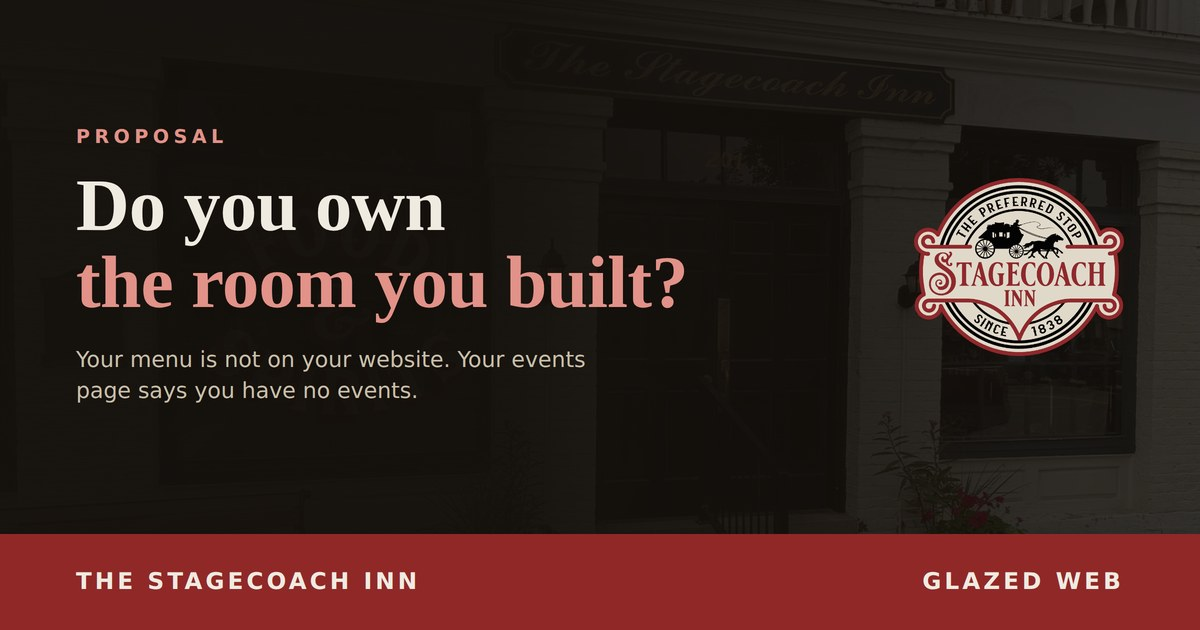
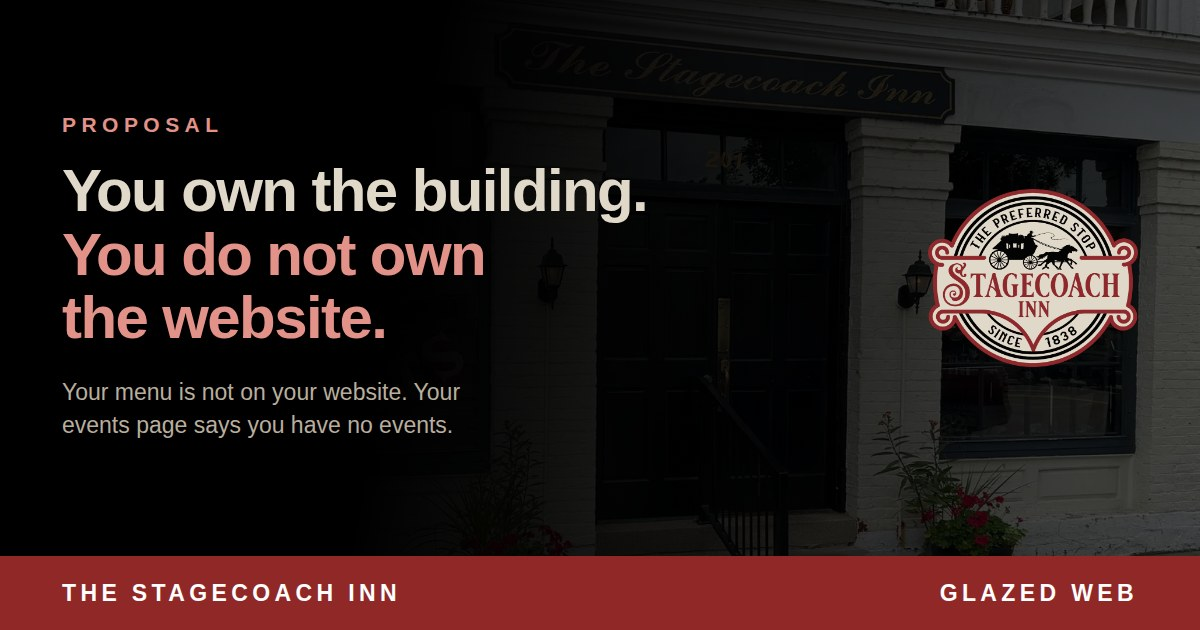
Say the thesis instead of gesturing at it
"Do you own the room you built?" asked a bar owner about a room, and a bar
owner owns the room. The metaphor meant the website; the literal reading is
right there and it wins, so the hook argued itself down to "yes, obviously."

Now: "You own the building. You do not own the website." Same thesis, no
decoding, and the sub-head pays it off with the three findings that make it
true rather than restating it.

The share card had the old headline baked into a JPEG, so every link preview
was advertising a line the page no longer said. tools/make-og.mjs now builds
it, asserts the headline fits its column before writing, and is named in the
README as something to re-run when the h1 changes.

The h1 floor drops 38px -> 34px: the longest line measures 350px and the
column is 342px at a 390px viewport, so it wrapped and the forced break after
it orphaned "building." on a line of its own. Three clean lines at 390, 768
and 1440; four at 320, which is the only width where it does not fit.

Title, og:title and twitter:title carried the old hook too. All three updated.
Proposal page and site routes both 0 axe violations at 390 and 1440.

diff --git a/public/pitch/stagecoach.html b/public/pitch/stagecoach.html
@@ -3,7 +3,7 @@
 <head>
 <meta charset="utf-8">
 <meta name="viewport" content="width=device-width,initial-scale=1">
-<title>Do you own the room you built? &middot; Stagecoach Inn &times; Glazed Web</title>
+<title>You own the building. You do not own the website. &middot; Stagecoach Inn &times; Glazed Web</title>
 <meta name="description" content="A website audit and rebuild proposal for The Stagecoach Inn, Marshall Michigan. The menu is not on the site, the events page says there are no events, and Toast publishes a second website about you.">
 <meta name="robots" content="noindex,nofollow">
 <link rel="icon" href="/brand/logo.png">
@@ -13,14 +13,14 @@
      link never previews blank on either domain. -->
 <meta property="og:type" content="website">
 <meta property="og:site_name" content="Glazed Web">
-<meta property="og:title" content="Do you own the room you built?">
+<meta property="og:title" content="You own the building. You do not own the website.">
 <meta property="og:description" content="Your menu is not on your website. Your events page says you have no events. And Toast publishes a second Stagecoach Inn site with your phone number on it.">
 <meta property="og:image" content="https://stagecoach-demo.vercel.app/pitch/og.jpg">
 <meta property="og:image:width" content="1200">
 <meta property="og:image:height" content="630">
 <meta property="og:image:alt" content="Stagecoach Inn proposal from Glazed Web">
 <meta name="twitter:card" content="summary_large_image">
-<meta name="twitter:title" content="Do you own the room you built?">
+<meta name="twitter:title" content="You own the building. You do not own the website.">
 <meta name="twitter:description" content="Your menu is not on your website. Your events page says you have no events.">
 <meta name="twitter:image" content="https://stagecoach-demo.vercel.app/pitch/og.jpg">
 <style>
@@ -65,7 +65,10 @@ nav a:hover{color:var(--pink-d)}
 /* hero */
 .hero{padding:66px 0 54px;text-align:left}
 .hero .mark{height:92px;width:auto;margin-bottom:24px;display:block}
-.hero h1{font-family:var(--sans);font-size:clamp(38px,5.5vw,60px);font-weight:800;color:var(--ink);letter-spacing:-2px;line-height:1.04}
+/* The floor is 34, not 38, because the longest line of the headline measures
+   350px at 38 and the column is 342 at a 390px viewport: it wrapped, and the
+   forced break after it left "building." alone on a line. Measured, not eyed. */
+.hero h1{font-family:var(--sans);font-size:clamp(34px,5.5vw,60px);font-weight:800;color:var(--ink);letter-spacing:-2px;line-height:1.06}
 .hero h1 em{font-style:normal;color:var(--pink)}
 .hero .sub{font-size:1.12rem;color:var(--body);margin-top:20px;max-width:31em}
 .forwho{margin-top:26px;font-family:var(--sans);font-size:.7rem;letter-spacing:.16em;text-transform:uppercase;color:var(--mute);line-height:1.9}
@@ -232,12 +235,13 @@ footer .gmark{height:78px;width:auto}
   <div class="hero">
     <svg class="gmark gl" viewBox="0 0 200 250" overflow="visible" aria-hidden="true"><defs><linearGradient id="dgGrad" x1="0" y1="92" x2="0" y2="165" gradientUnits="userSpaceOnUse"><stop offset="0%" stop-color="#5FA850"></stop><stop offset="100%" stop-color="#43813A"></stop></linearGradient><linearGradient id="lgGrad" x1="0" y1="92" x2="0" y2="215" gradientUnits="userSpaceOnUse"><stop offset="0%" stop-color="#D9EDA0"></stop><stop offset="55%" stop-color="#BFE07A"></stop><stop offset="100%" stop-color="#A3CE55"></stop></linearGradient><radialGradient id="pinkGrad" cx="40%" cy="34%" r="75%"><stop offset="0%" stop-color="#F887B2"></stop><stop offset="55%" stop-color="#E84D8A"></stop><stop offset="100%" stop-color="#CE3672"></stop></radialGradient><linearGradient id="creepGrad" x1="0" y1="90" x2="0" y2="124" gradientUnits="userSpaceOnUse"><stop offset="0%" stop-color="#E3F2B0"></stop><stop offset="100%" stop-color="#C3E181"></stop></linearGradient></defs><g class="goo"><g fill="url(#dgGrad)"><ellipse cx="100" cy="110" rx="38" ry="15"></ellipse><path class="wobB" d="M 86 100 C 86 116, 87 130, 88 142 C 88 148, 91 149, 92 142 C 93 130, 92 114, 92 100 Z"></path><path d="M 114 100 C 114 112, 115 124, 116 134 C 116 140, 119 141, 120 134 C 121 124, 120 110, 120 100 Z"></path></g><g fill="url(#lgGrad)"><path class="wob1" d="M 64 100 C 63 120, 65 138, 66 152 C 66 164, 68 172, 74 173 C 80 172, 83 165, 82 154 C 84 136, 85 116, 86 100 Z"></path><path class="wob2" d="M 92 100 C 91 128, 93 152, 94 172 C 94 188, 97 199, 104 200 C 111 199, 114 190, 112 174 C 113 150, 114 124, 114 100 Z"></path><path class="wob3" d="M 120 100 C 119 116, 120 130, 121 142 C 121 152, 123 159, 129 160 C 134 159, 137 153, 135 144 C 136 130, 137 114, 137 100 Z"></path></g></g><path class="string" d="M 104 199 L 104 209" stroke="#BFE07A" stroke-width="2.5" stroke-linecap="round" fill="none"></path><g class="droplet"><circle cx="104" cy="213" r="7" fill="#BFE07A"></circle><circle cx="102" cy="211" r="2" fill="#F1F8DC" opacity="0.9"></circle></g><circle class="droplet2" cx="74" cy="186" r="4.5" fill="#BFE07A"></circle><circle cx="100" cy="70" r="52" fill="url(#pinkGrad)"></circle><path d="M 56 98 A 52 52 0 0 0 144 98 C 142 94, 138 92, 134 94 C 130 97, 129 102, 125 104 C 119 106, 116 98, 110 96 C 104 94, 103 102, 98 105 C 93 107, 90 100, 84 97 C 78 95, 76 100, 71 102 C 66 103, 62 100, 56 98 Z" fill="url(#creepGrad)"></path><path d="M 68 106 A 42 42 0 0 0 84 116" fill="none" stroke="#F1F8DC" stroke-width="4" stroke-linecap="round" opacity="0.85"></path><path d="M 97 144 Q 103 151 109 144" fill="none" stroke="#55974A" stroke-width="4" stroke-linecap="round"></path><g stroke="#F1F8DC" fill="none" stroke-linecap="round"><path d="M 97 128 C 96 148, 97 166, 100 182" stroke-width="4.5" opacity="0.85"></path><path d="M 69 118 C 68 132, 70 146, 71 156" stroke-width="3.5" opacity="0.8"></path><path d="M 124 114 C 123 124, 125 138, 126 148" stroke-width="3.5" opacity="0.8"></path></g><circle cx="100" cy="192" r="2.5" fill="#F1F8DC" opacity="0.9"></circle><circle cx="100" cy="72" r="13" fill="#FDF6EC"></circle><circle cx="100" cy="72" r="13" fill="none" stroke="#C22F6B" stroke-width="3" opacity="0.3"></circle><path class="sheen" d="M 62 46 A 44 44 0 0 1 82 28" fill="none" stroke="#FFFFFF" stroke-width="8" stroke-linecap="round"></path><circle class="sheen" cx="92" cy="26" r="3.5" fill="#FFFFFF"></circle></svg>
     <div class="k">Website &amp; ordering proposal &middot; The Stagecoach Inn</div>
-    <h1>Do you own<br>the room<br><em>you built?</em></h1>
-    <p class="sub">You own the building. You own the kitchen, the bar, the trivia
-    night and a hundred and eighty-eight years of being the stop people made on
-    purpose. Online, almost none of it is yours. We went through every page you
-    have, then built the site we would put in its place, with your real menu in
-    it. It is live right now, and everything in this letter links to the proof.</p>
+    <h1>You own the building.<br>You do not own<br><em>the website.</em></h1>
+    <p class="sub">You own the bar, the kitchen, the trivia night and a hundred
+    and eighty-eight years of being the stop people made on purpose. Online,
+    almost none of it is yours: your menu lives on Toast, your events page says
+    you have no events, and Toast publishes a second Stagecoach Inn site of its
+    own. We built the one we would put in its place, with your real menu in it.
+    It is live right now, and everything in this letter links to the proof.</p>
     <div class="forwho">
       Prepared by <b>Kevin Hershock &middot; Glazed Web</b><br>
       Marshall, Michigan &middot; August 2026<br>

diff --git a/README.md b/README.md
@@ -57,13 +57,18 @@ Current audit state: **0 axe violations** across all 7 routes at 390px and
 | `lib/tonight.ts` | Which event is on tonight. Domain logic, kept out of the component so it can be tested against a supplied clock. |
 | `tools/test-tonight.mjs` | Tests that logic across the week. `node tools/test-tonight.mjs`. Run it after touching `lib/tonight.ts` or `WEEKLY_EVENTS`. |
 | `tools/cut-mark.py` | Cuts the badge into the animatable layers the hero rig uses. Re-run it rather than hand-editing any layer. |
+| `tools/make-og.mjs` | Builds the proposal's share card. **Re-run it whenever the proposal `<h1>` changes**, and change the headline in both places. |
 
 ### Surfaces that cannot read from `lib/site.ts`
 
 Named here because they will go stale silently otherwise:
 
-- `public/pitch/og.jpg` and `public/pitch/stagecoach.html` — the proposal's own
-  copy and share card, hand-written.
+- `public/pitch/stagecoach.html` — the proposal's own copy, hand-written.
+- `public/pitch/og.jpg` — generated by `tools/make-og.mjs`, but the headline
+  lives in **both** that script and the proposal's `<h1>`. They went out of sync
+  once already: the hook changed and the share card kept advertising the old
+  one, so every link preview said something the page no longer said. Change one,
+  change the other, re-run the tool.
 - `public/brand/logo.png` — artwork, not type.
 - The `openingHoursSpecification` in `app/layout.tsx` is machine-readable and
   derived by hand from `SITE.hours`; if the hours change, change both. They are
